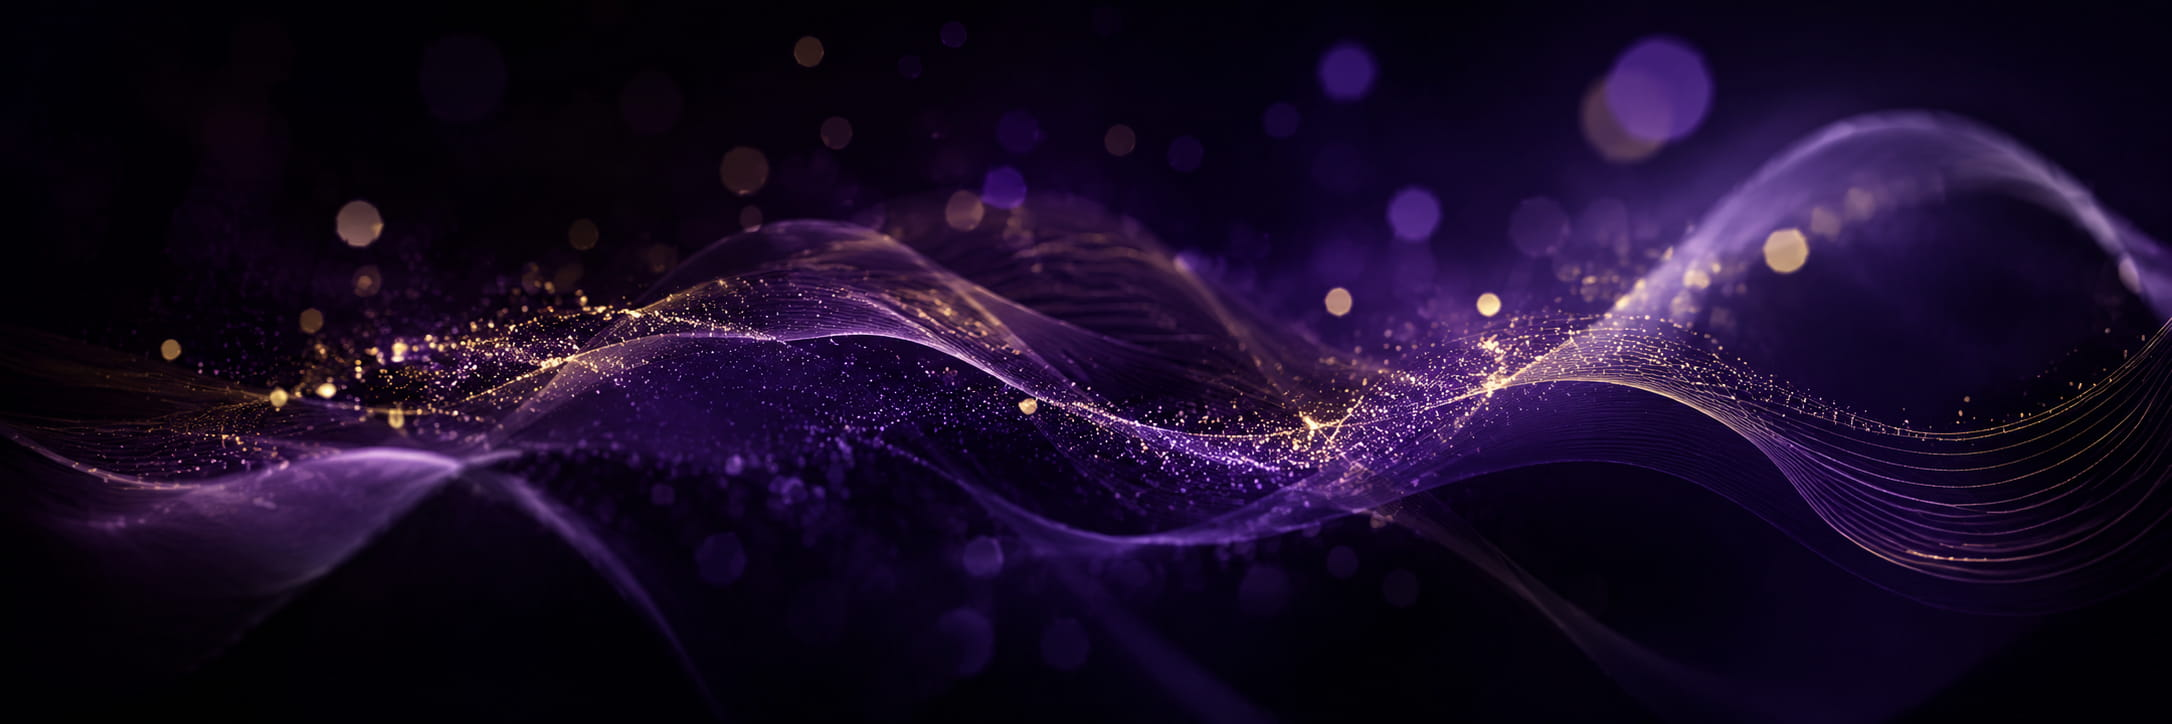
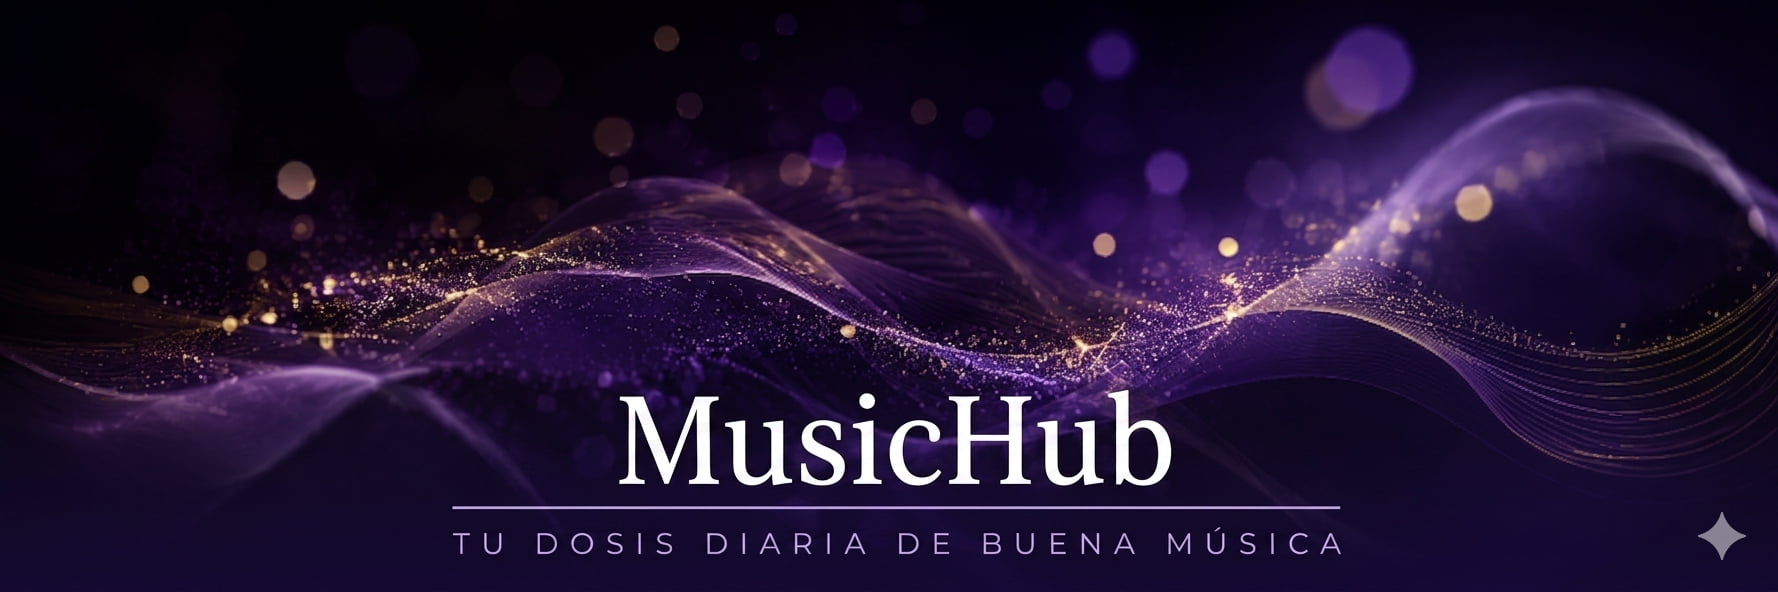
Ajustes de template + mejora de checkdb

diff --git a/templates/email_template_old.html b/templates/email_template_old.html
@@ -1,0 +1,95 @@
+<!DOCTYPE html>
+<html>
+<head>
+  <meta charset="UTF-8">
+  <meta name="viewport" content="width=device-width, initial-scale=1.0">
+  <style>
+    @import url('https://fonts.googleapis.com/css2?family=Playfair+Display:ital,wght@0,400;0,600;1,400&family=Lato:wght@300;400&display=swap');
+  </style>
+</head>
+<body style="margin:0; padding:0; background-color:#E8E0EF; font-family:'Lato', Georgia, serif;">
+
+  <!-- Outer wrapper -->
+  <table width="100%" cellpadding="0" cellspacing="0" style="background-color:#E8E0EF; padding:32px 0;">
+    <tr>
+      <td align="center">
+
+        <!-- Card -->
+        <table width="600" cellpadding="0" cellspacing="0" style="max-width:600px; width:100%; background-color:#F5F0F7; border-radius:14px; overflow:hidden; box-shadow:0 4px 32px rgba(60,10,100,0.13);">
+
+          <!-- ─── HEADER ─── -->
+          <tr>
+            <td style="padding:0; position:relative; text-align:center; background-color:#1a0a2e;">
+              <!-- Imagen de fondo -->
+              <img src="{{header_image_url}}" width="600" alt="" style="display:block; width:100%; max-width:600px; height:auto; opacity:0.85;" />
+              <!-- Overlay oscuro para legibilidad -->
+              <table width="100%" cellpadding="0" cellspacing="0" style="position:absolute; top:0; left:0; width:100%; height:100%; background: linear-gradient(180deg, rgba(20,6,42,0.35) 0%, rgba(20,6,42,0.65) 100%);">
+                <tr><td>&nbsp;</td></tr>
+              </table>
+              <!-- Texto sobre la imagen -->
+              <table width="100%" cellpadding="0" cellspacing="0" style="position:absolute; top:0; left:0; width:100%; height:100%;">
+                <tr>
+                  <td align="center" valign="middle" style="padding:28px 32px;">
+                    <p style="color:#f0dfff; margin:0 0 6px; font-size:11px; font-family:'Lato', sans-serif; letter-spacing:4px; text-transform:uppercase; font-weight:300; opacity:0.8;">tu dosis diaria de</p>
+                    <h1 style="color:#fff; margin:0; font-size:30px; font-family:'Playfair Display', serif; font-weight:600; letter-spacing:2px; text-shadow:0 2px 12px rgba(0,0,0,0.5);">
+                      ♫ MusicHub
+                    </h1>
+                    <div style="margin:10px auto 0; width:40px; height:1px; background:linear-gradient(90deg, transparent, #c4a8e8, transparent);"></div>
+                  </td>
+                </tr>
+              </table>
+            </td>
+          </tr>
+
+          <!-- ─── INTRO ─── -->
+          <tr>
+            <td style="padding:32px 40px 20px;">
+              <p style="color:#2e1a44; font-size:15px; line-height:1.8; margin:0; font-family:'Lato', sans-serif; font-weight:300;">
+                {{intro}}
+              </p>
+            </td>
+          </tr>
+
+          <!-- ─── SEPARADOR ─── -->
+          <tr>
+            <td style="padding:0 40px;">
+              <div style="height:1px; background:linear-gradient(90deg, transparent, #d0b8f0, transparent);"></div>
+            </td>
+          </tr>
+
+          <!-- ─── CANCIONES ─── -->
+          {{songs_html}}
+
+          <!-- ─── SEPARADOR ─── -->
+          <tr>
+            <td style="padding:0 40px;">
+              <div style="height:1px; background:linear-gradient(90deg, transparent, #d0b8f0, transparent);"></div>
+            </td>
+          </tr>
+
+          <!-- ─── OUTRO ─── -->
+          <tr>
+            <td style="padding:24px 40px 32px;">
+              <p style="color:#6b4d8a; font-size:14px; line-height:1.7; margin:0; font-style:italic; font-family:'Playfair Display', serif;">
+                {{outro}}
+              </p>
+            </td>
+          </tr>
+
+          <!-- ─── FOOTER ─── -->
+          <tr>
+            <td style="background-color:#ede5f5; padding:18px 40px; text-align:center; border-top:1px solid #d8cce8;">
+              <p style="color:#9c85b5; font-size:11px; margin:0; font-family:'Lato', sans-serif; letter-spacing:1.5px; text-transform:uppercase; font-weight:300;">
+                Para oídos exigentes &nbsp;·&nbsp; MusicHub
+              </p>
+            </td>
+          </tr>
+
+        </table>
+
+      </td>
+    </tr>
+  </table>
+
+</body>
+</html>

diff --git a/templates/email_template.html b/templates/email_template.html
@@ -7,34 +7,41 @@
     @import url('https://fonts.googleapis.com/css2?family=Playfair+Display:ital,wght@0,400;0,600;1,400&family=Lato:wght@300;400&display=swap');
   </style>
 </head>
-<body style="margin:0; padding:0; background-color:#E8E0EF; font-family:'Lato', Georgia, serif;">
+<body style="margin:0; padding:0; background-color:#c8b8d8; font-family:'Lato', Georgia, serif;">
 
   <!-- Outer wrapper -->
-  <table width="100%" cellpadding="0" cellspacing="0" style="background-color:#E8E0EF; padding:32px 0;">
+  <table width="100%" cellpadding="0" cellspacing="0" style="background-color:#c8b8d8; padding:32px 0;">
     <tr>
       <td align="center">
 
         <!-- Card -->
-        <table width="600" cellpadding="0" cellspacing="0" style="max-width:600px; width:100%; background-color:#F5F0F7; border-radius:14px; overflow:hidden; box-shadow:0 4px 32px rgba(60,10,100,0.13);">
+        <table width="600" cellpadding="0" cellspacing="0" style="max-width:600px; width:100%; background-color:#F5F0F7; border-radius:14px; overflow:hidden; box-shadow:0 4px 32px rgba(60,10,100,0.18);">
 
           <!-- ─── HEADER ─── -->
           <tr>
-            <td style="padding:0; position:relative; text-align:center; background-color:#1a0a2e;">
-              <!-- Imagen de fondo -->
-              <img src="{{header_image_url}}" width="600" alt="" style="display:block; width:100%; max-width:600px; height:auto; opacity:0.85;" />
-              <!-- Overlay oscuro para legibilidad -->
-              <table width="100%" cellpadding="0" cellspacing="0" style="position:absolute; top:0; left:0; width:100%; height:100%; background: linear-gradient(180deg, rgba(20,6,42,0.35) 0%, rgba(20,6,42,0.65) 100%);">
-                <tr><td>&nbsp;</td></tr>
-              </table>
-              <!-- Texto sobre la imagen -->
-              <table width="100%" cellpadding="0" cellspacing="0" style="position:absolute; top:0; left:0; width:100%; height:100%;">
+            <td style="padding:0; background-color:#1a0a2e; line-height:0; font-size:0;">
+              <!-- Imagen a ancho completo -->
+              <img src="{{header_image_url}}" width="600" alt=""
+                   style="display:block; width:100%; max-width:600px; height:auto;" />
+              <!-- Texto encima: tabla con margin negativo, compatible Gmail -->
+              <table width="600" cellpadding="0" cellspacing="0"
+                     style="width:100%; max-width:600px; margin-top:-110px;">
                 <tr>
-                  <td align="center" valign="middle" style="padding:28px 32px;">
-                    <p style="color:#f0dfff; margin:0 0 6px; font-size:11px; font-family:'Lato', sans-serif; letter-spacing:4px; text-transform:uppercase; font-weight:300; opacity:0.8;">tu dosis diaria de</p>
-                    <h1 style="color:#fff; margin:0; font-size:30px; font-family:'Playfair Display', serif; font-weight:600; letter-spacing:2px; text-shadow:0 2px 12px rgba(0,0,0,0.5);">
-                      ♫ MusicHub
+                  <td align="center" valign="middle"
+                      style="padding:0 32px 28px; height:110px;
+                             background: linear-gradient(180deg, rgba(20,6,42,0) 0%, rgba(20,6,42,0.72) 60%, rgba(20,6,42,0.85) 100%);">
+                    <p style="color:#f0dfff; margin:0 0 6px; font-size:11px;
+                              font-family:'Lato', sans-serif; letter-spacing:4px;
+                              text-transform:uppercase; font-weight:300;">
+                      tu dosis diaria de
+                    </p>
+                    <h1 style="color:#fff; margin:0; font-size:30px;
+                               font-family:'Playfair Display', serif; font-weight:600;
+                               letter-spacing:2px; text-shadow:0 2px 12px rgba(0,0,0,0.6);">
+                      &#9835; MusicHub
                     </h1>
-                    <div style="margin:10px auto 0; width:40px; height:1px; background:linear-gradient(90deg, transparent, #c4a8e8, transparent);"></div>
+                    <div style="margin:10px auto 0; width:40px; height:1px;
+                                background:linear-gradient(90deg, transparent, #c4a8e8, transparent);"></div>
                   </td>
                 </tr>
               </table>
@@ -44,7 +51,8 @@
           <!-- ─── INTRO ─── -->
           <tr>
             <td style="padding:32px 40px 20px;">
-              <p style="color:#2e1a44; font-size:15px; line-height:1.8; margin:0; font-family:'Lato', sans-serif; font-weight:300;">
+              <p style="color:#2e1a44; font-size:15px; line-height:1.8; margin:0;
+                        font-family:'Lato', sans-serif; font-weight:300;">
                 {{intro}}
               </p>
             </td>
@@ -70,7 +78,8 @@
           <!-- ─── OUTRO ─── -->
           <tr>
             <td style="padding:24px 40px 32px;">
-              <p style="color:#6b4d8a; font-size:14px; line-height:1.7; margin:0; font-style:italic; font-family:'Playfair Display', serif;">
+              <p style="color:#6b4d8a; font-size:14px; line-height:1.7; margin:0;
+                        font-style:italic; font-family:'Playfair Display', serif;">
                 {{outro}}
               </p>
             </td>
@@ -79,7 +88,9 @@
           <!-- ─── FOOTER ─── -->
           <tr>
             <td style="background-color:#ede5f5; padding:18px 40px; text-align:center; border-top:1px solid #d8cce8;">
-              <p style="color:#9c85b5; font-size:11px; margin:0; font-family:'Lato', sans-serif; letter-spacing:1.5px; text-transform:uppercase; font-weight:300;">
+              <p style="color:#9c85b5; font-size:11px; margin:0;
+                        font-family:'Lato', sans-serif; letter-spacing:1.5px;
+                        text-transform:uppercase; font-weight:300;">
                 Para oídos exigentes &nbsp;·&nbsp; MusicHub
               </p>
             </td>

diff --git a/check_db.py b/check_db.py
@@ -1,4 +1,41 @@
 from agent.memory import get_history
+from collections import Counter
 
-for song in get_history():
-    print(f"{song['recommended_date']} | {song['artist']} - {song['title']} ({song['genre']})")
+def check_db():
+    history = get_history()
+
+    if not history:
+        print("La base de datos está vacía.")
+        return
+
+    # ── Resumen global ──────────────────────────────────────────
+    dates = [s['recommended_date'] for s in history]
+    genres = [s['genre'] for s in history]
+    genre_counts = Counter(genres).most_common()
+
+    print("=" * 55)
+    print("📊 RESUMEN GLOBAL DE LA BASE DE DATOS")
+    print("=" * 55)
+    print(f"  Total de canciones recomendadas : {len(history)}")
+    print(f"  Días con recomendaciones        : {len(set(dates))}")
+    print(f"  Primera recomendación           : {min(dates)}")
+    print(f"  Última recomendación            : {max(dates)}")
+    print()
+    print("  Canciones por género:")
+    for genre, count in genre_counts:
+        print(f"    - {genre}: {count}")
+
+    # ── Muestra de los primeros 5 registros ────────────────────
+    print()
+    print("=" * 55)
+    print("🎵 MUESTRA (primeros 5 registros)")
+    print("=" * 55)
+    for song in history[:5]:
+        print(f"  {song['recommended_date']} | {song['artist']} - {song['title']} ({song['genre']})")
+
+    print()
+    print(f"  ... y {len(history) - 5} canciones más en la DB.")
+
+if __name__ == "__main__":
+    print("Iniciando check_db...")
+    check_db()